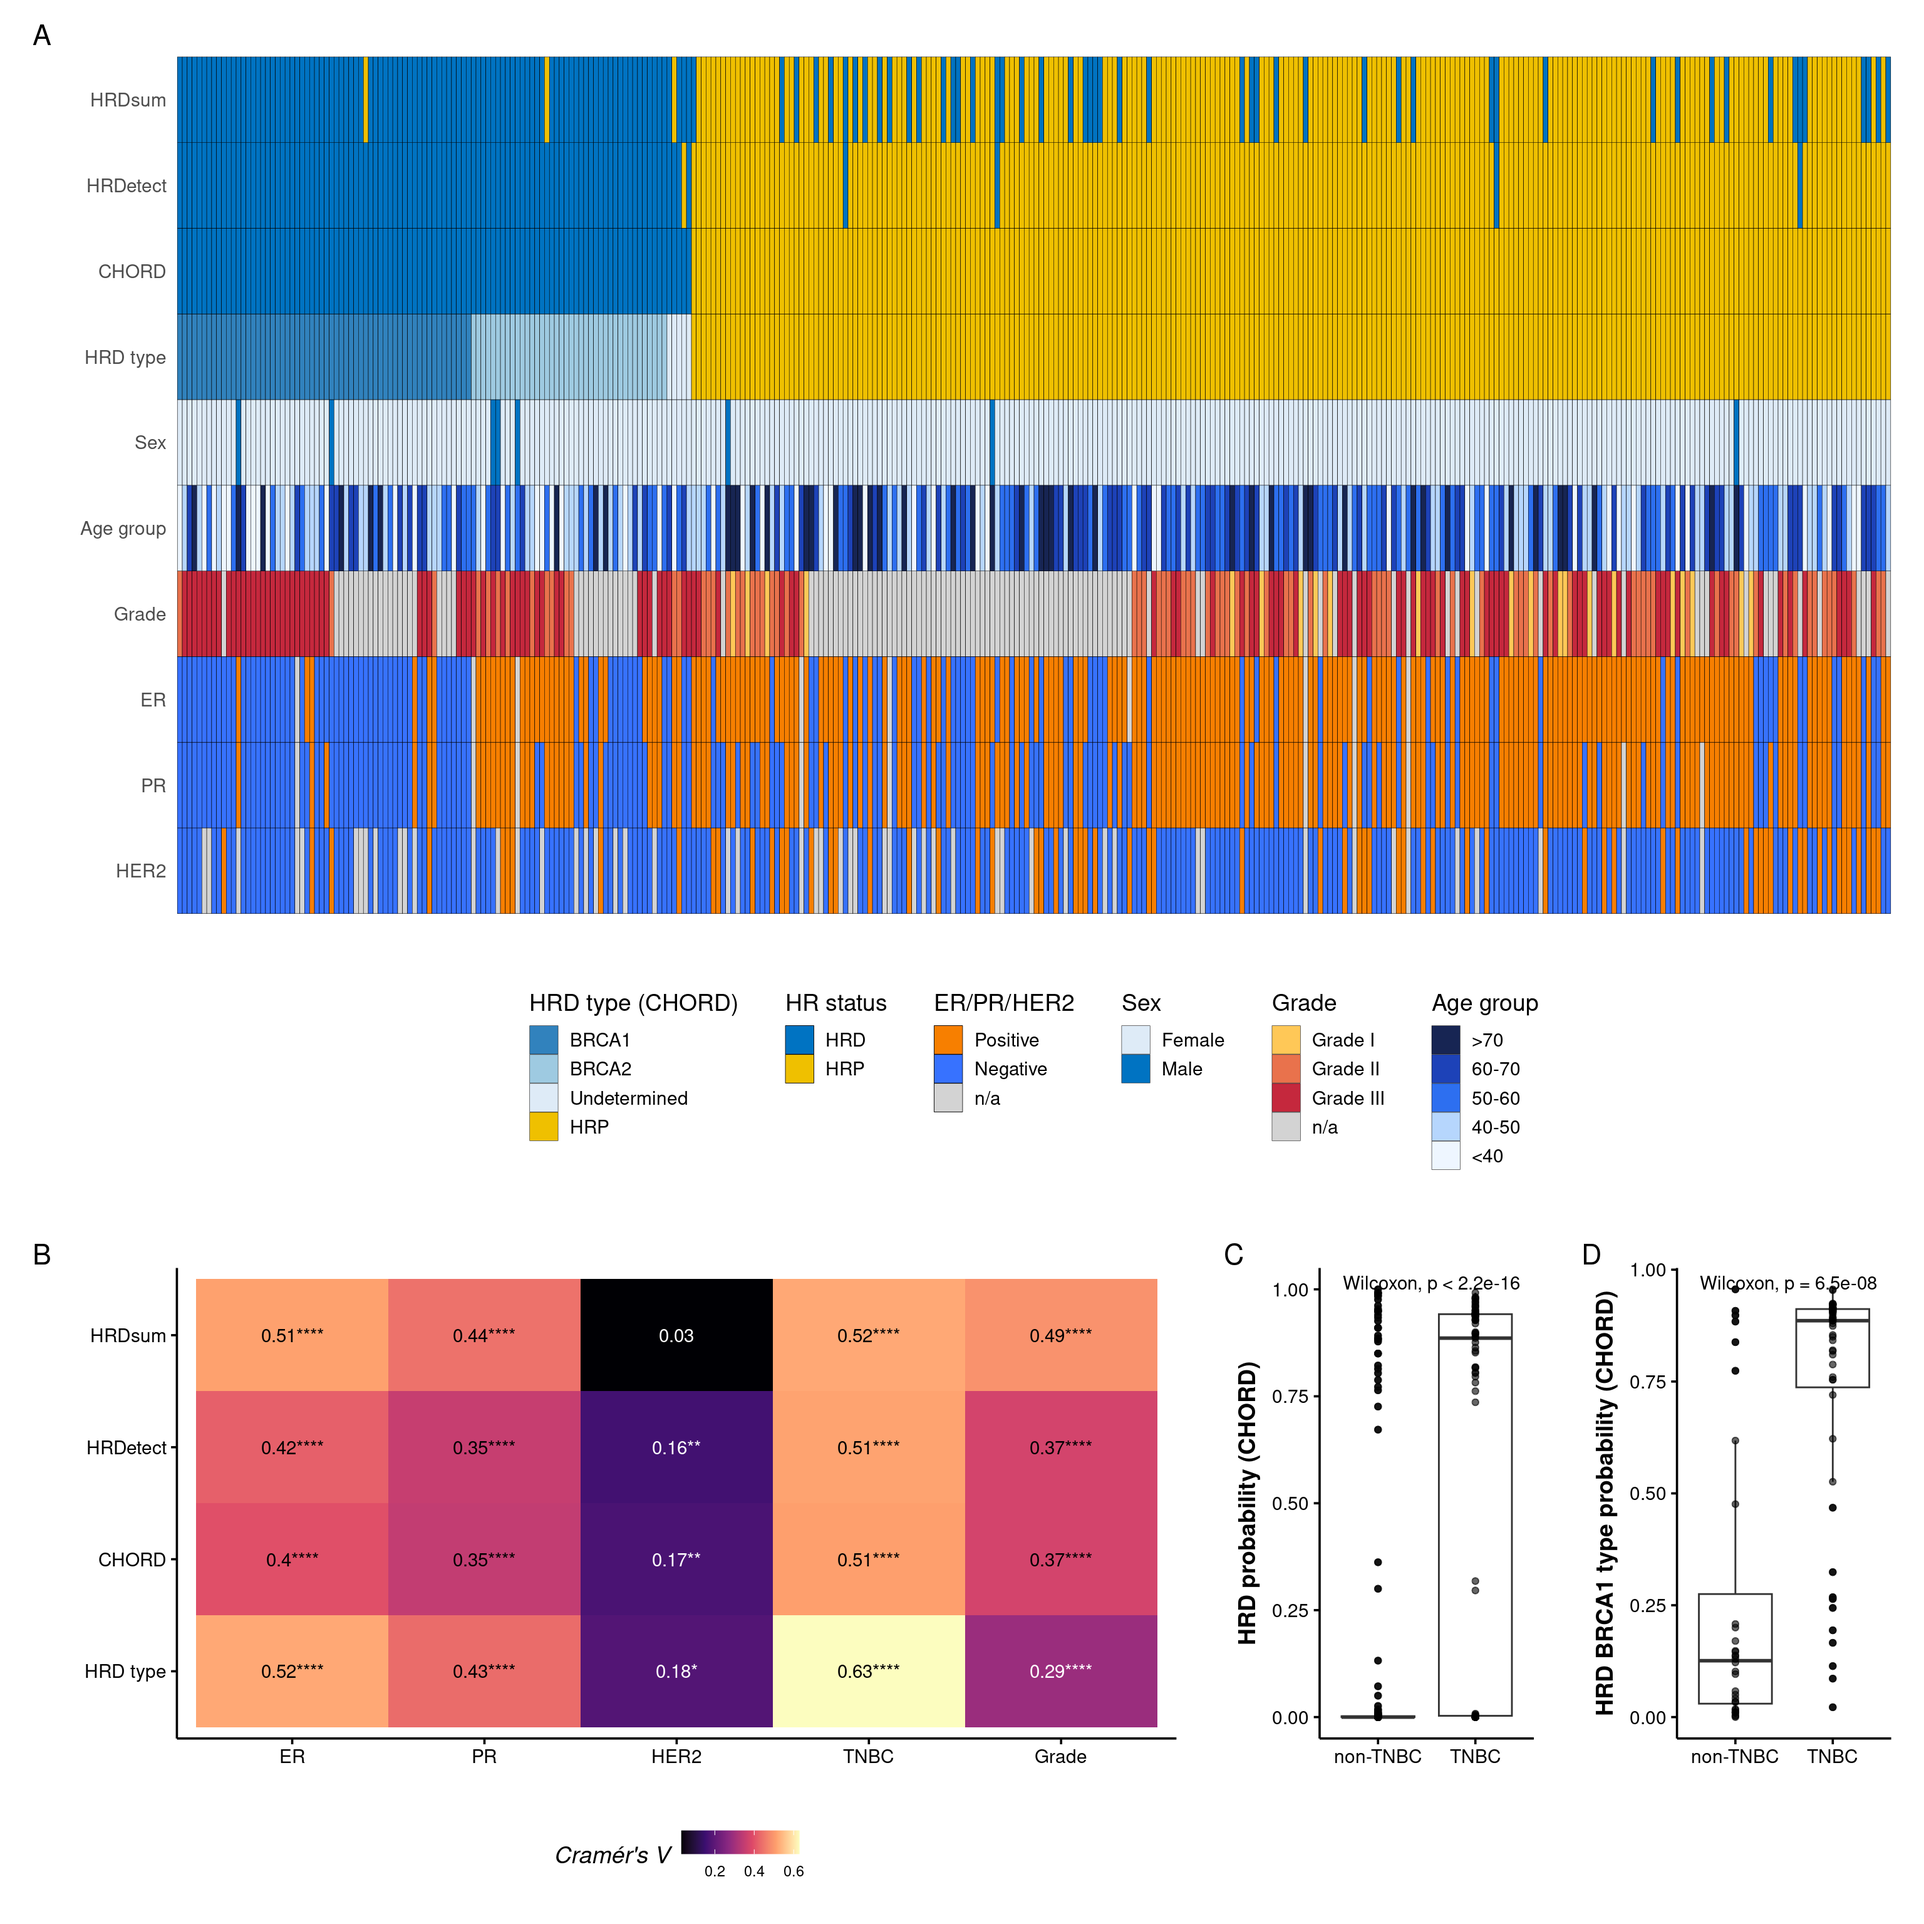
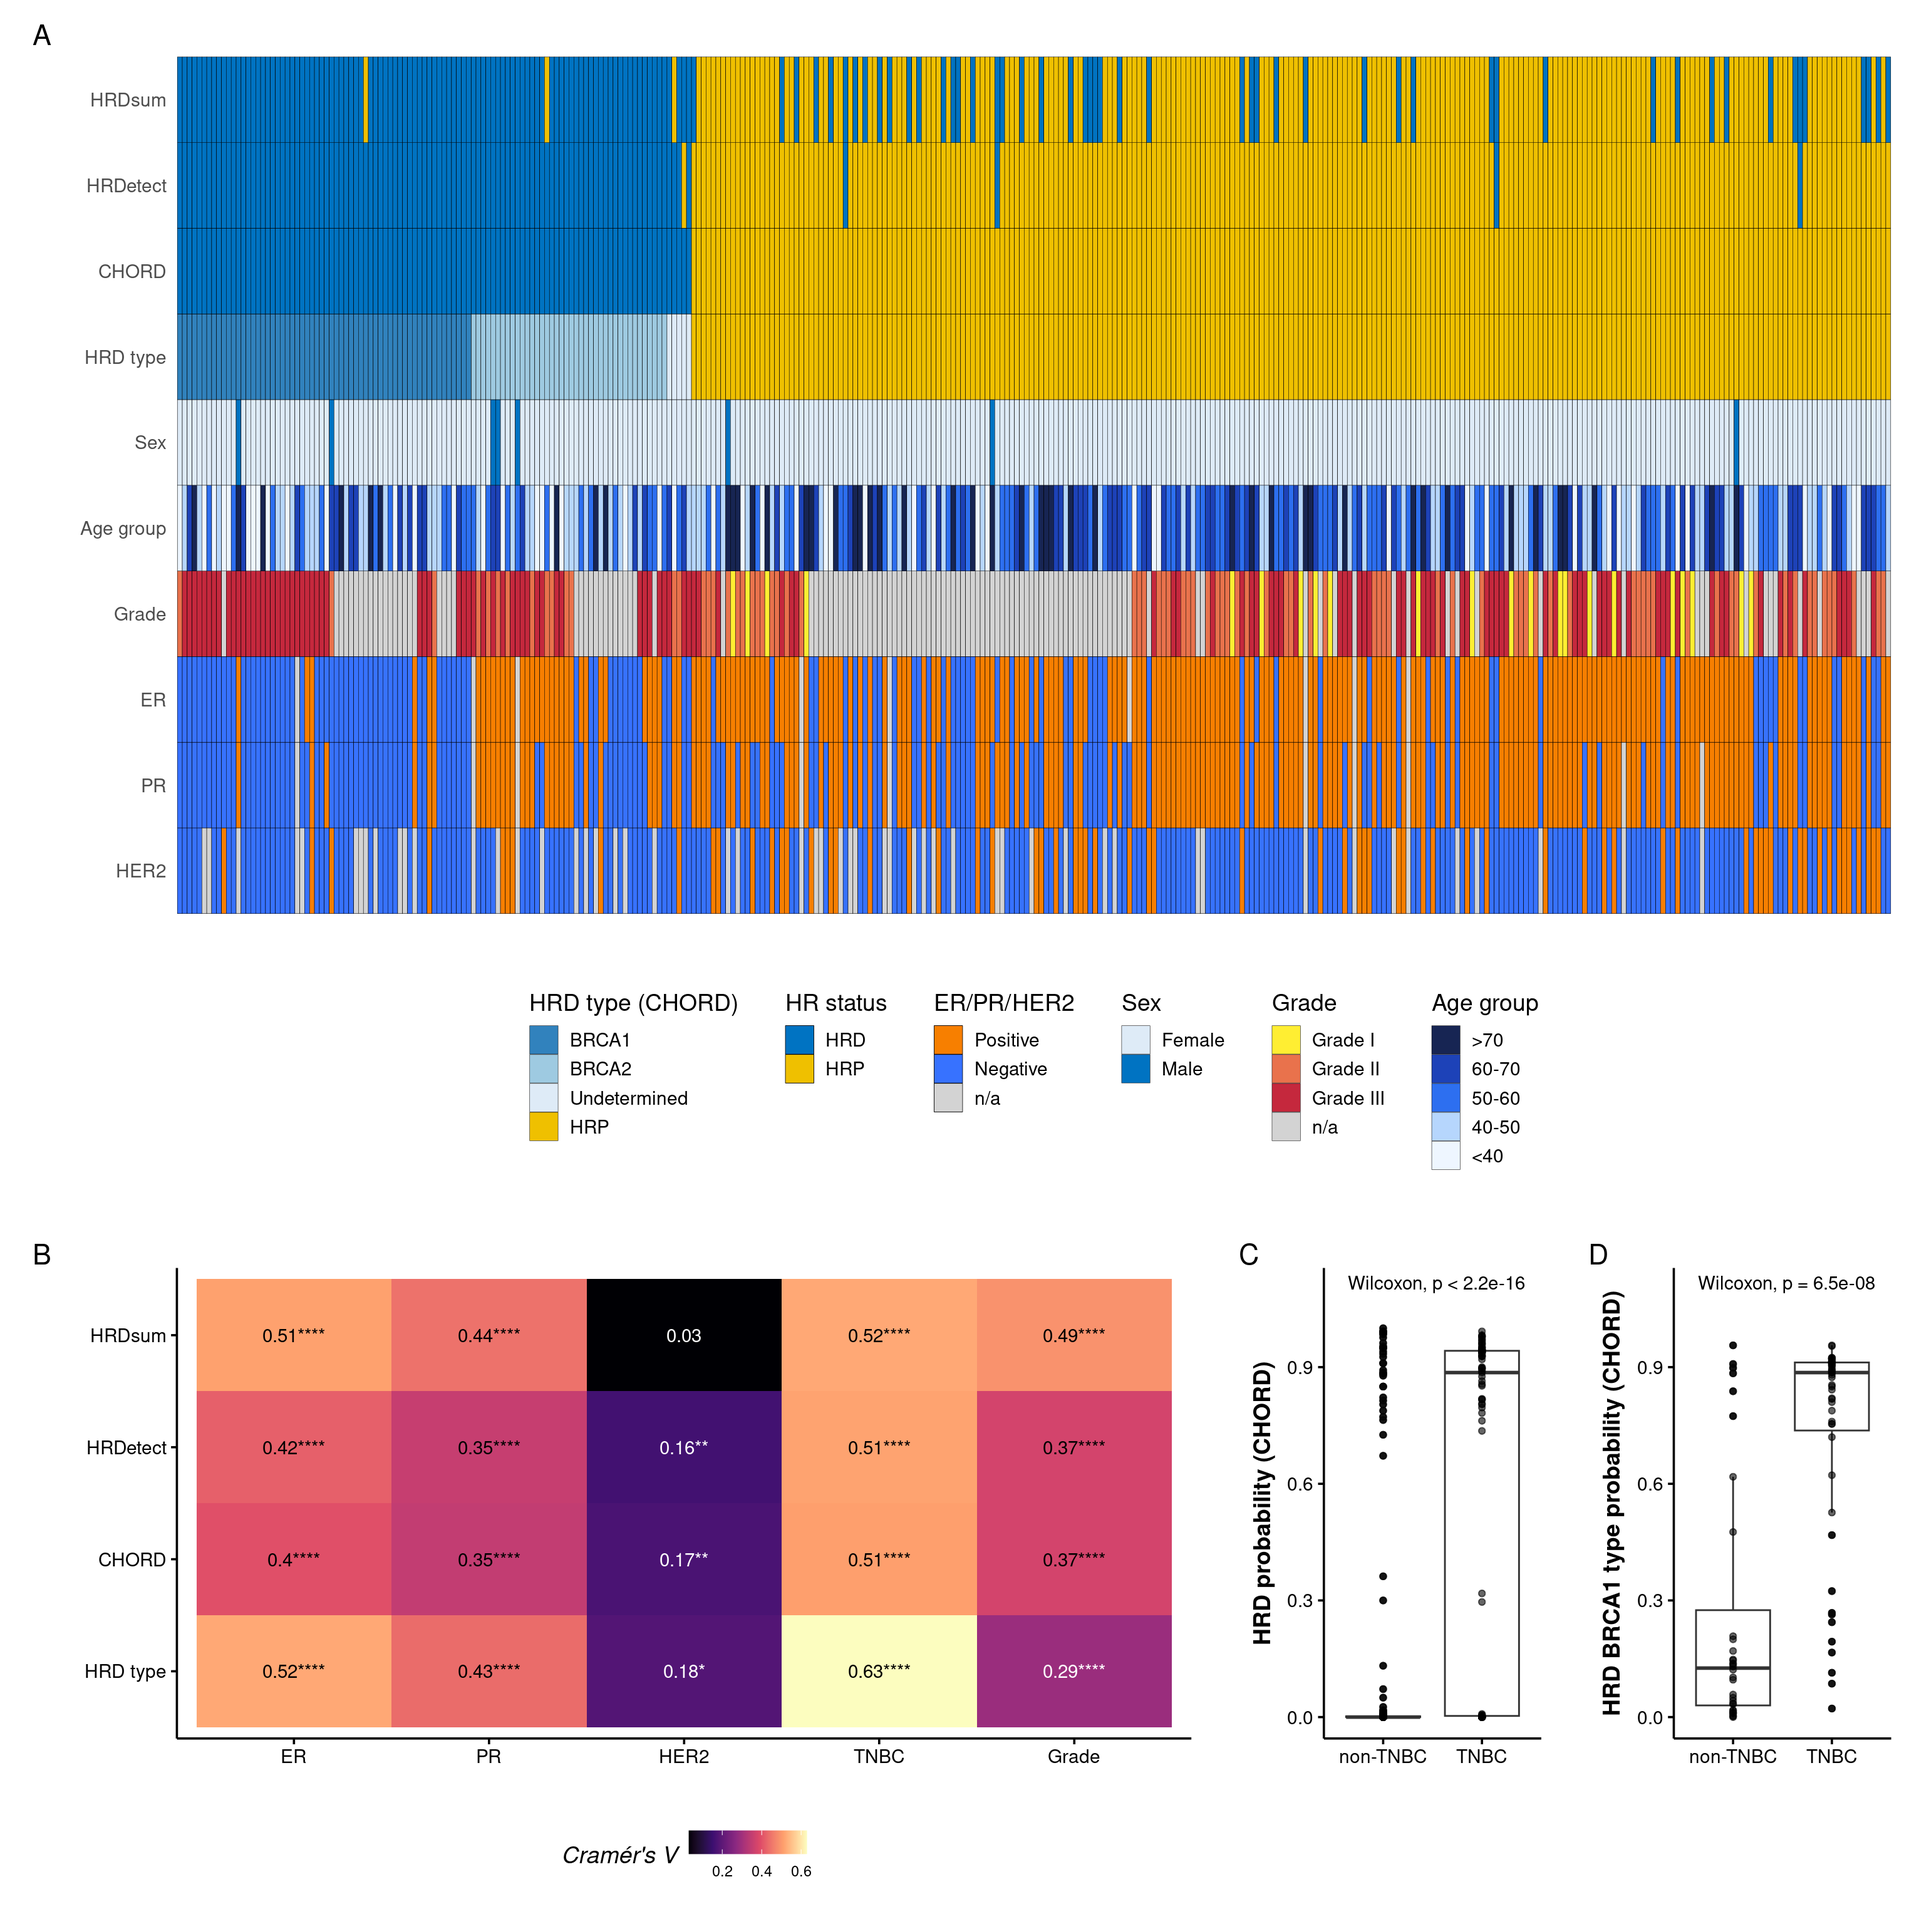
fix color grade, and update reamde

diff --git a/7.pathology.md b/7.pathology.md
@@ -71,7 +71,7 @@ df <- df |> mutate(gender=ifelse(toupper(gender) %in% c("MALE","M"), "Male", ife
 df |> head(10) |>  gt() |> as_raw_html()
 ```
 
-<div id="tdlktgpfpt" style="padding-left:0px;padding-right:0px;padding-top:10px;padding-bottom:10px;overflow-x:auto;overflow-y:auto;width:auto;height:auto;">
+<div id="kvqotflyst" style="padding-left:0px;padding-right:0px;padding-top:10px;padding-bottom:10px;overflow-x:auto;overflow-y:auto;width:auto;height:auto;">
   &#10;  <table class="gt_table" data-quarto-disable-processing="false" data-quarto-bootstrap="false" style="-webkit-font-smoothing: antialiased; -moz-osx-font-smoothing: grayscale; font-family: system-ui, 'Segoe UI', Roboto, Helvetica, Arial, sans-serif, 'Apple Color Emoji', 'Segoe UI Emoji', 'Segoe UI Symbol', 'Noto Color Emoji'; display: table; border-collapse: collapse; line-height: normal; margin-left: auto; margin-right: auto; color: #333333; font-size: 16px; font-weight: normal; font-style: normal; background-color: #FFFFFF; width: auto; border-top-style: solid; border-top-width: 2px; border-top-color: #A8A8A8; border-right-style: none; border-right-width: 2px; border-right-color: #D3D3D3; border-bottom-style: solid; border-bottom-width: 2px; border-bottom-color: #A8A8A8; border-left-style: none; border-left-width: 2px; border-left-color: #D3D3D3;" bgcolor="#FFFFFF">
   <thead style="border-style: none;">
     <tr class="gt_col_headings" style="border-style: none; border-top-style: solid; border-top-width: 2px; border-top-color: #D3D3D3; border-bottom-style: solid; border-bottom-width: 2px; border-bottom-color: #D3D3D3; border-left-style: none; border-left-width: 1px; border-left-color: #D3D3D3; border-right-style: none; border-right-width: 1px; border-right-color: #D3D3D3;">

diff --git a/README.md b/README.md
@@ -17,6 +17,7 @@ evidence-based support for variant classification in clinical genetics.
 
 - 📄 [Data resources](1.data_summary.md)
 - 🔧 [FFPE sample signature correction](FFPE_correction.md)
+- 📋 [Pathology and HR status](7.pathology.md)
 
 ### Germline variants and BRCA1/2 classfication
 
